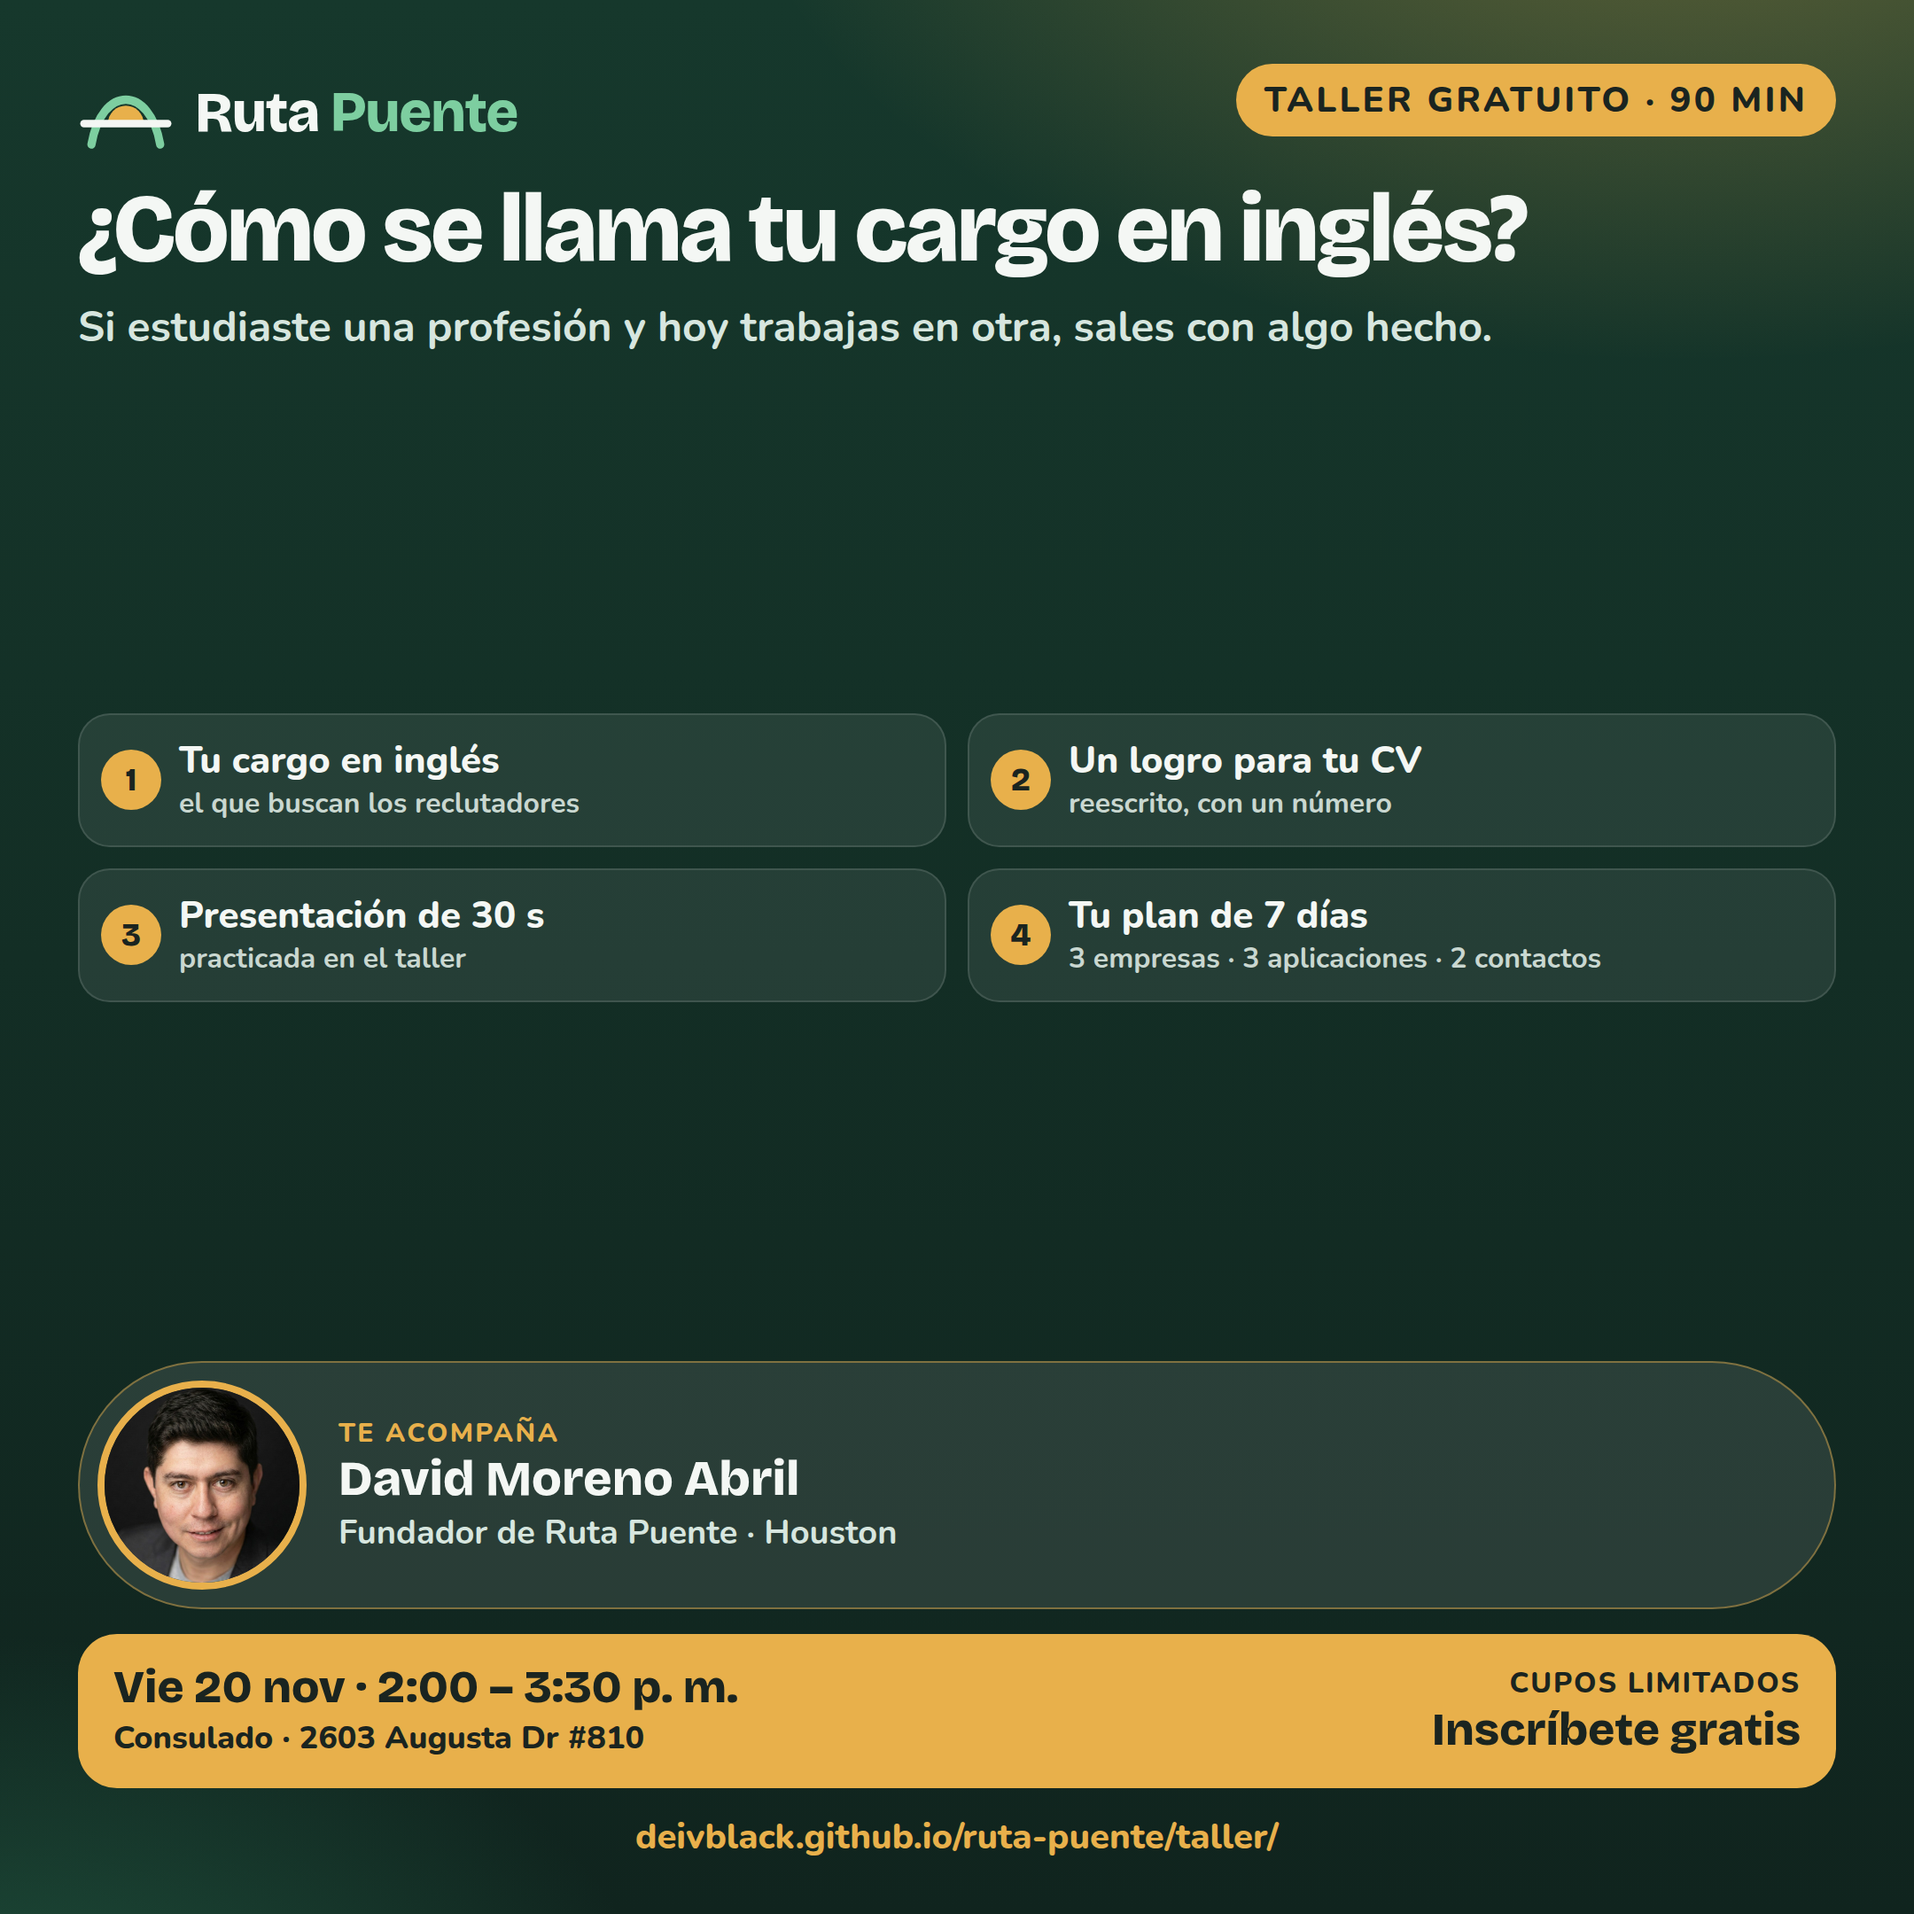
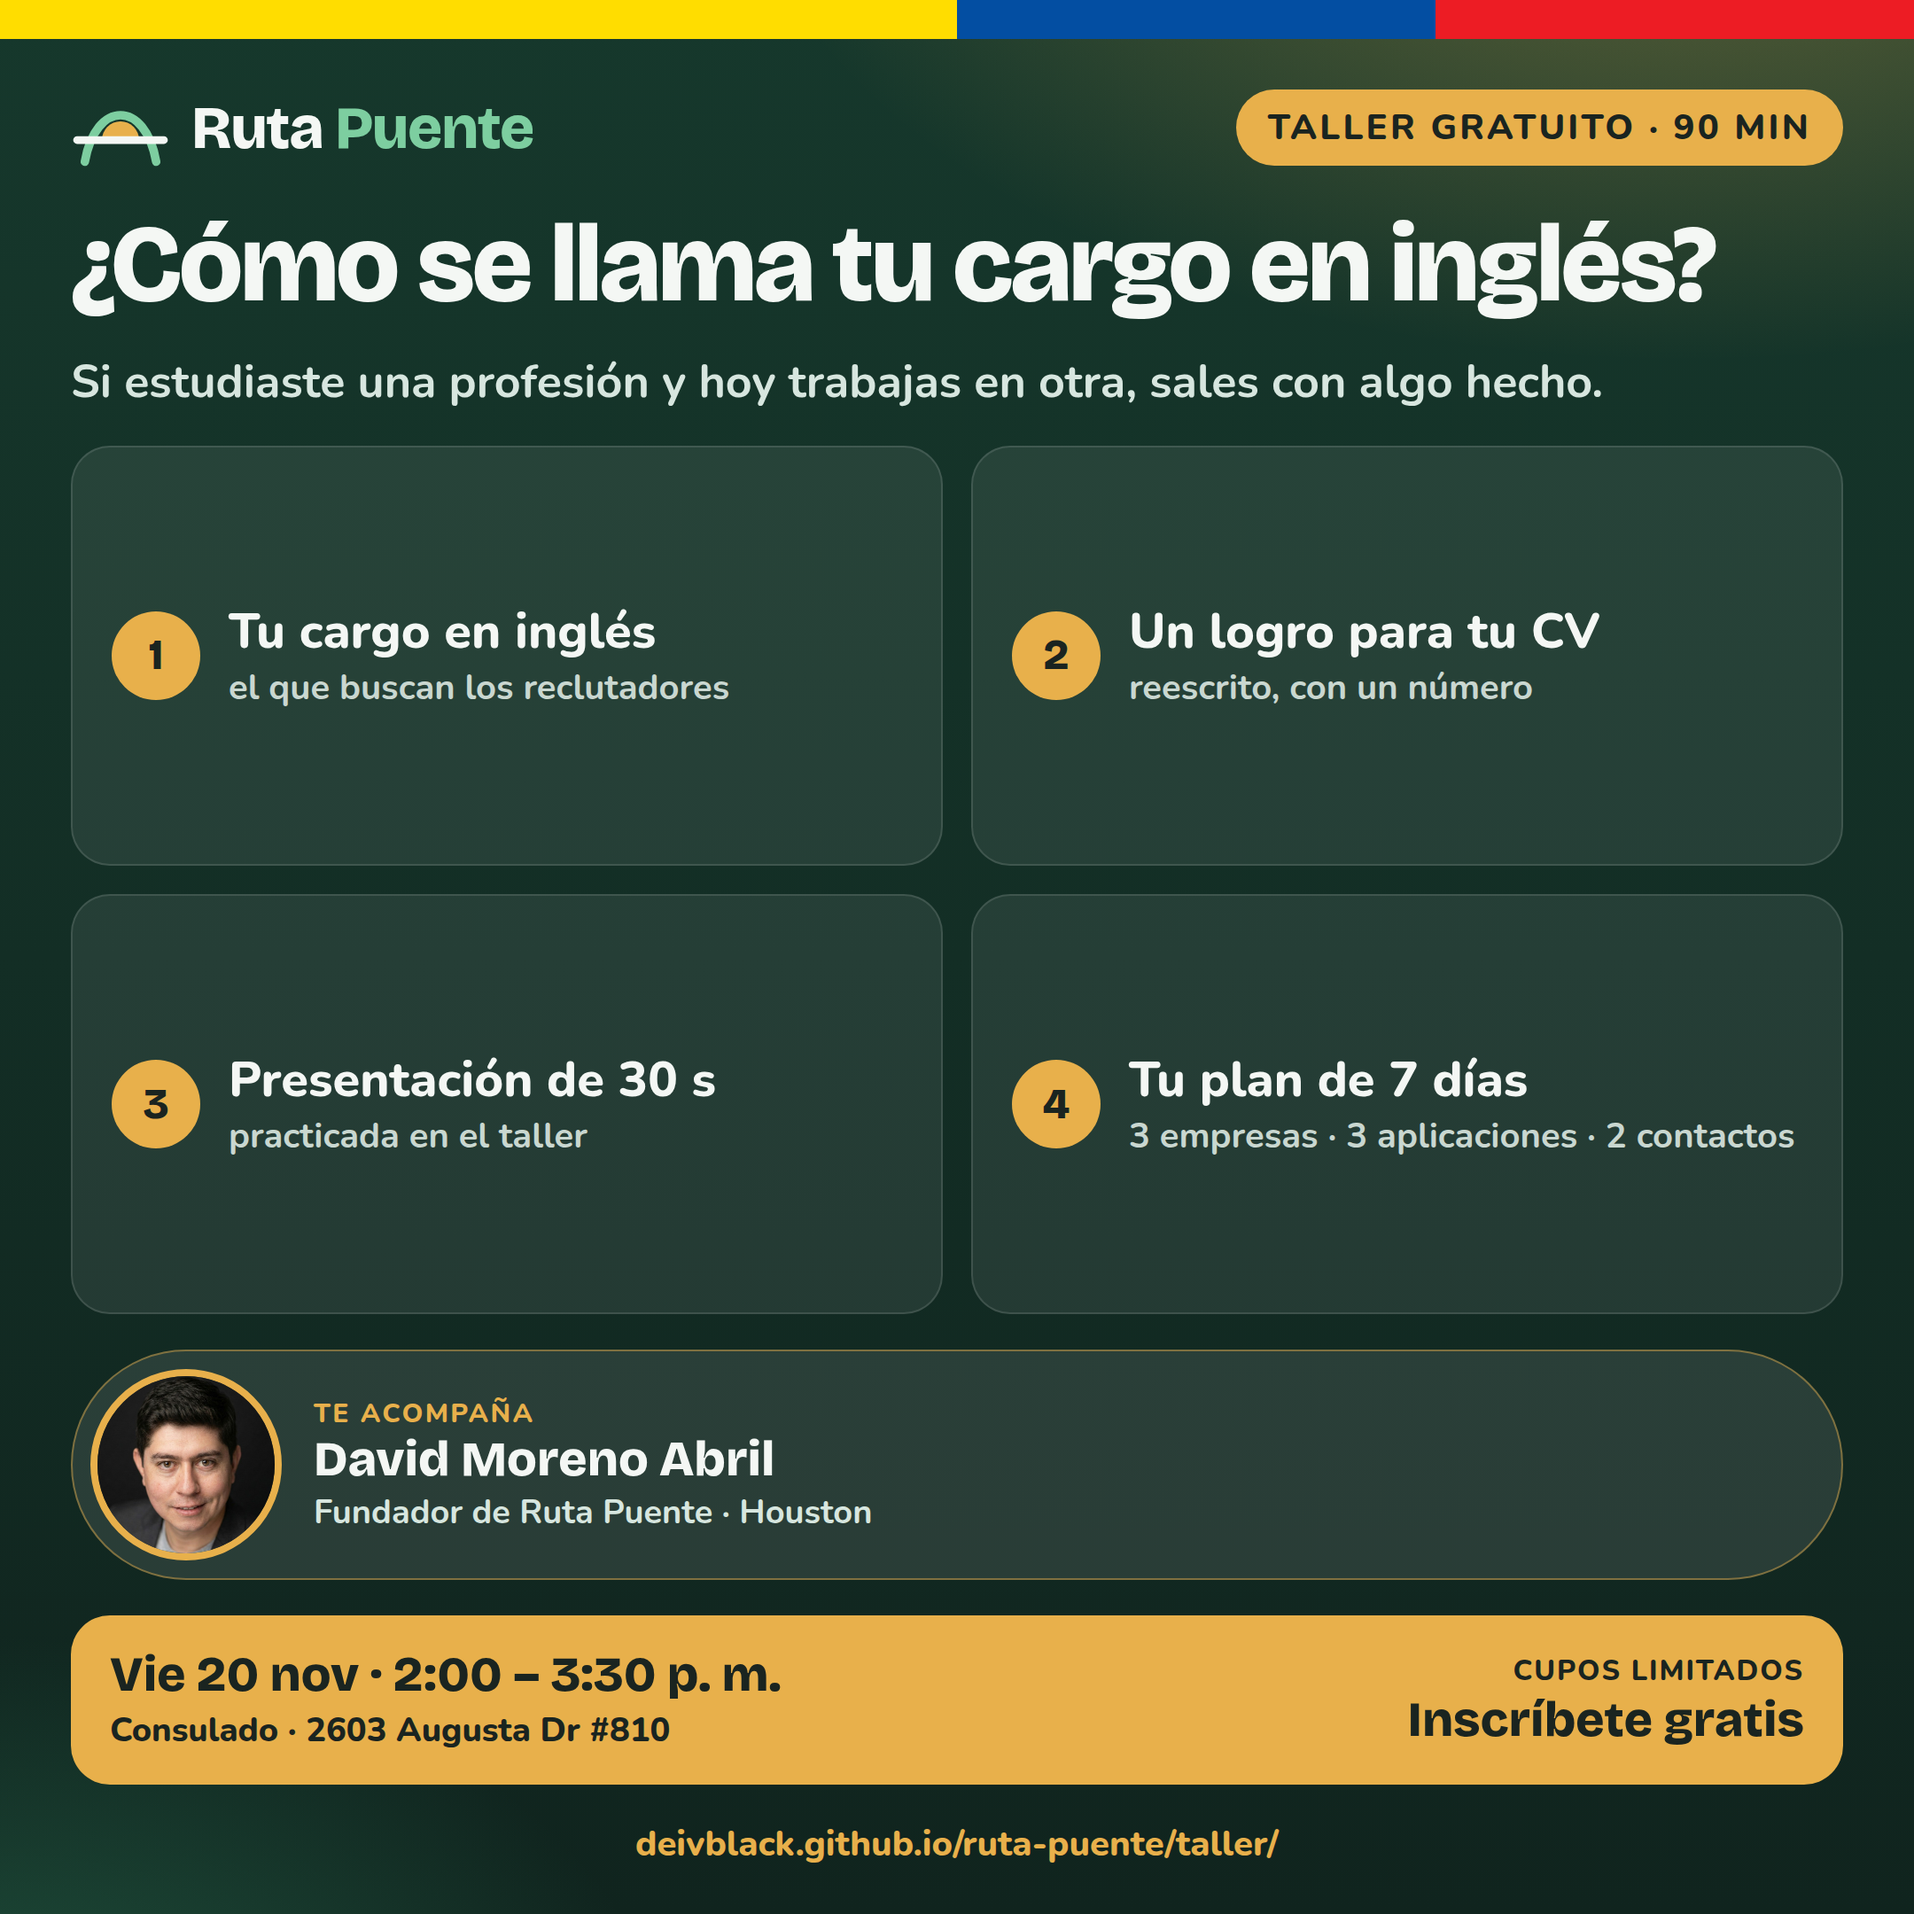
Reparte mejor el espacio de las artes de WhatsApp y vuelve a poner las franjas de la bandera.
Las bandas vacías del medio ahora las ocupan los cuatro beneficios, más grandes. El logo del Consulado sigue fuera; el apoyo va solo en el copy.

diff --git a/taller/artes/cuadrado.html b/taller/artes/cuadrado.html
@@ -17,39 +17,43 @@ html,body{margin:0;padding:0;background:#10241e}
     linear-gradient(180deg,#16382c 0%, #10241e 100%);
   color:#f4f7f4;
   font-family:"Nunito",system-ui,sans-serif;
-  padding:36px 44px 30px;
-  display:flex;flex-direction:column;justify-content:space-between;gap:18px;
+  padding:28px 40px 26px;
+  display:flex;flex-direction:column;gap:20px;
 }
-.top,.pie{display:flex;flex-direction:column;gap:14px}
-.head{display:flex;align-items:center;justify-content:space-between;gap:16px}
+.tricolor{position:absolute;left:0;right:0;top:0;height:22px;display:flex}
+.tricolor i{display:block}
+.tricolor i:nth-child(1){flex:2;background:#FFDD00}
+.tricolor i:nth-child(2){flex:1;background:#034EA2}
+.tricolor i:nth-child(3){flex:1;background:#ED1C24}
+.head{display:flex;align-items:center;justify-content:space-between;gap:16px;padding-top:16px}
 .brand{display:flex;align-items:center;gap:12px}
-.brand svg{width:54px;height:54px}
-.brand b{font-family:"Bricolage Grotesque",system-ui,sans-serif;font-size:32px;font-weight:800;letter-spacing:-.02em}
+.brand svg{width:56px;height:56px}
+.brand b{font-family:"Bricolage Grotesque",system-ui,sans-serif;font-size:34px;font-weight:800;letter-spacing:-.02em}
 .brand b span{color:#7dcea0}
 .pill{
-  align-self:flex-start;background:#e8b04b;color:#1a2420;
+  background:#e8b04b;color:#1a2420;
   font-weight:800;font-size:20px;letter-spacing:.08em;
-  padding:7px 16px;border-radius:999px;
+  padding:8px 18px;border-radius:999px;
 }
 h1{
   font-family:"Bricolage Grotesque",system-ui,sans-serif;
-  font-size:54px;line-height:.95;margin:0;font-weight:800;
+  font-size:62px;line-height:.95;margin:0;font-weight:800;
   text-wrap:balance;letter-spacing:-.03em;
 }
-.lead{font-size:24px;line-height:1.28;font-weight:700;color:#d7e6df;margin:0}
-.bens{display:grid;grid-template-columns:1fr 1fr;gap:12px}
+.lead{font-size:26px;line-height:1.25;font-weight:700;color:#d7e6df;margin:0}
+.bens{flex:1;display:grid;grid-template-columns:1fr 1fr;grid-template-rows:1fr 1fr;gap:16px;min-height:0}
 .bens div{
   background:rgba(255,255,255,.08);border:1px solid rgba(255,255,255,.12);
-  border-radius:18px;padding:14px 14px 14px 12px;
-  display:flex;gap:10px;align-items:center;
-  font-size:21px;font-weight:800;line-height:1.15;
+  border-radius:22px;padding:24px 22px;
+  display:flex;gap:16px;align-items:center;
+  font-size:28px;font-weight:800;line-height:1.15;
 }
-.bens em{display:block;font-style:normal;font-size:16px;font-weight:700;color:#c9d7d0;margin-top:3px}
+.bens em{display:block;font-style:normal;font-size:20px;font-weight:700;color:#c9d7d0;margin-top:4px}
 .bens .n{
-  flex:0 0 34px;height:34px;border-radius:50%;
+  flex:0 0 50px;height:50px;border-radius:50%;
   background:#e8b04b;color:#1a2420;
   display:grid;place-items:center;
-  font-family:"Bricolage Grotesque",system-ui,sans-serif;font-size:18px;
+  font-family:"Bricolage Grotesque",system-ui,sans-serif;font-size:24px;
 }
 .me{
   display:flex;align-items:center;gap:18px;
@@ -57,27 +61,27 @@ h1{
   border-radius:999px;padding:10px 24px 10px 10px;
 }
 .me img{
-  width:118px;height:118px;border-radius:50%;object-fit:cover;
-  border:4px solid #e8b04b;flex:0 0 118px;
+  width:108px;height:108px;border-radius:50%;object-fit:cover;
+  border:4px solid #e8b04b;flex:0 0 108px;
 }
 .me small{display:block;font-size:15px;letter-spacing:.08em;text-transform:uppercase;color:#e8b04b;font-weight:800}
 .me b{display:block;font-family:"Bricolage Grotesque",system-ui,sans-serif;font-size:28px;line-height:1.1}
 .me span{display:block;font-size:19px;font-weight:700;color:#d7e6df;margin-top:2px}
 .barra{
   background:#e8b04b;color:#1a2420;border-radius:22px;
-  padding:16px 20px;display:flex;align-items:center;justify-content:space-between;gap:16px;
+  padding:18px 22px;display:flex;align-items:center;justify-content:space-between;gap:16px;
 }
-.barra b{display:block;font-family:"Bricolage Grotesque",system-ui,sans-serif;font-size:26px;line-height:1.1}
-.barra span{display:block;font-size:18px;font-weight:800;margin-top:2px}
+.barra b{display:block;font-family:"Bricolage Grotesque",system-ui,sans-serif;font-size:28px;line-height:1.1}
+.barra span{display:block;font-size:19px;font-weight:800;margin-top:3px}
 .cta{text-align:right;font-weight:800}
 .cta em{display:block;font-style:normal;font-size:16px;letter-spacing:.06em}
-.cta strong{display:block;font-family:"Bricolage Grotesque",system-ui,sans-serif;font-size:26px}
+.cta strong{display:block;font-family:"Bricolage Grotesque",system-ui,sans-serif;font-size:28px}
 .url{text-align:center;font-size:20px;font-weight:800;color:#e8b04b}
 </style>
 </head>
 <body>
 <div class="pieza">
-  <div class="top">
+  <div class="tricolor" aria-hidden="true"><i></i><i></i><i></i></div>
   <div class="head">
     <div class="brand">
       <svg viewBox="0 0 64 64" aria-hidden="true"><path d="M20 40a12 12 0 0 1 24 0Z" fill="#E8B04B"/><path d="M9 54 C 16 14, 48 14, 55 54" fill="none" stroke="#7dcea0" stroke-width="5.5" stroke-linecap="round"/><path d="M4 40h56" stroke="#f4f7f4" stroke-width="5" stroke-linecap="round"/></svg>
@@ -87,14 +91,12 @@ h1{
   </div>
   <h1>¿Cómo se llama tu cargo en inglés?</h1>
   <p class="lead">Si estudiaste una profesión y hoy trabajas en otra, sales con algo hecho.</p>
-  </div>
   <div class="bens">
     <div><span class="n">1</span><span>Tu cargo en inglés<em>el que buscan los reclutadores</em></span></div>
     <div><span class="n">2</span><span>Un logro para tu CV<em>reescrito, con un número</em></span></div>
     <div><span class="n">3</span><span>Presentación de 30 s<em>practicada en el taller</em></span></div>
     <div><span class="n">4</span><span>Tu plan de 7 días<em>3 empresas · 3 aplicaciones · 2 contactos</em></span></div>
   </div>
-  <div class="pie">
   <div class="me">
     <img src="david.jpg" alt="David Moreno Abril">
     <div>
@@ -114,7 +116,6 @@ h1{
     </div>
   </div>
   <div class="url">deivblack.github.io/ruta-puente/taller/</div>
-  </div>
 </div>
 </body>
 </html>

diff --git a/taller/artes/estado.html b/taller/artes/estado.html
@@ -17,69 +17,75 @@ html,body{margin:0;padding:0;background:#10241e}
     linear-gradient(180deg,#1a4638 0%, #10241e 48%, #0d1c18 100%);
   color:#f4f7f4;
   font-family:"Nunito",system-ui,sans-serif;
-  padding:52px 52px 44px;
-  display:flex;flex-direction:column;gap:20px;
+  padding:36px 48px 40px;
+  display:flex;flex-direction:column;gap:22px;
 }
-.head{display:flex;align-items:center;justify-content:space-between;gap:16px}
+.tricolor{position:absolute;left:0;right:0;top:0;height:24px;display:flex}
+.tricolor i{display:block}
+.tricolor i:nth-child(1){flex:2;background:#FFDD00}
+.tricolor i:nth-child(2){flex:1;background:#034EA2}
+.tricolor i:nth-child(3){flex:1;background:#ED1C24}
+.head{display:flex;align-items:center;justify-content:space-between;gap:16px;padding-top:18px}
 .brand{display:flex;align-items:center;gap:12px}
 .brand svg{width:58px;height:58px}
 .brand b{font-family:"Bricolage Grotesque",system-ui,sans-serif;font-size:34px;font-weight:800}
 .brand b span{color:#7dcea0}
 .pill{
-  align-self:flex-start;background:#e8b04b;color:#1a2420;
+  background:#e8b04b;color:#1a2420;
   font-weight:800;font-size:22px;letter-spacing:.08em;
   padding:9px 18px;border-radius:999px;
 }
 h1{
   font-family:"Bricolage Grotesque",system-ui,sans-serif;
-  font-size:70px;line-height:.95;margin:0;font-weight:800;letter-spacing:-.03em;
+  font-size:72px;line-height:.95;margin:0;font-weight:800;letter-spacing:-.03em;
 }
-.lead{font-size:28px;line-height:1.28;font-weight:700;color:#d7e6df;margin:0}
-.bens{display:flex;flex-direction:column;gap:12px}
+.lead{font-size:30px;line-height:1.25;font-weight:700;color:#d7e6df;margin:0}
+.bens{flex:1;display:flex;flex-direction:column;gap:16px;min-height:0}
 .bens div{
+  flex:1;
   background:rgba(255,255,255,.08);border:1px solid rgba(255,255,255,.12);
-  border-radius:18px;padding:16px 18px;
-  display:flex;gap:14px;align-items:center;
-  font-size:28px;font-weight:800;line-height:1.2;
+  border-radius:22px;padding:22px 24px;
+  display:flex;gap:16px;align-items:center;
+  font-size:34px;font-weight:800;line-height:1.15;
 }
 .bens .n{
-  flex:0 0 42px;height:42px;border-radius:50%;
+  flex:0 0 56px;height:56px;border-radius:50%;
   background:#e8b04b;color:#1a2420;
   display:grid;place-items:center;
-  font-family:"Bricolage Grotesque",system-ui,sans-serif;font-size:22px;
+  font-family:"Bricolage Grotesque",system-ui,sans-serif;font-size:26px;
 }
-.bens em{display:block;font-style:normal;font-size:18px;font-weight:700;color:#c9d7d0;margin-top:2px}
+.bens em{display:block;font-style:normal;font-size:22px;font-weight:700;color:#c9d7d0;margin-top:4px}
 .dato{
   background:rgba(232,176,75,.14);border:2px solid #e8b04b;border-radius:24px;
-  padding:20px 22px;
+  padding:22px 24px;
 }
-.dato b{display:block;font-family:"Bricolage Grotesque",system-ui,sans-serif;font-size:32px;line-height:1.15}
-.dato span{display:block;font-size:22px;font-weight:800;margin-top:6px;color:#e8d9b0}
+.dato b{display:block;font-family:"Bricolage Grotesque",system-ui,sans-serif;font-size:34px;line-height:1.15}
+.dato span{display:block;font-size:24px;font-weight:800;margin-top:6px;color:#e8d9b0}
 .me{
   display:flex;align-items:center;gap:18px;
   background:rgba(255,255,255,.1);border:1px solid rgba(232,176,75,.45);
-  border-radius:999px;padding:10px 24px 10px 10px;
+  border-radius:999px;padding:12px 26px 12px 12px;
 }
 .me img{
-  width:156px;height:156px;border-radius:50%;object-fit:cover;
-  border:4px solid #e8b04b;flex:0 0 156px;
+  width:148px;height:148px;border-radius:50%;object-fit:cover;
+  border:4px solid #e8b04b;flex:0 0 148px;
 }
 .me small{display:block;font-size:16px;letter-spacing:.08em;text-transform:uppercase;color:#e8b04b;font-weight:800}
 .me b{display:block;font-family:"Bricolage Grotesque",system-ui,sans-serif;font-size:32px;line-height:1.1;margin-top:2px}
 .me span{display:block;font-size:22px;font-weight:700;color:#d7e6df;margin-top:4px}
-.pie{display:flex;flex-direction:column;gap:16px;margin-top:8px}
 .foot{
   display:flex;align-items:center;gap:22px;
-  background:#f4f7f4;color:#1a2420;border-radius:28px;padding:20px;
+  background:#f4f7f4;color:#1a2420;border-radius:28px;padding:22px;
 }
 .foot img{width:200px;height:200px;background:#fff;border-radius:16px}
-.foot strong{display:block;font-family:"Bricolage Grotesque",system-ui,sans-serif;font-size:34px;line-height:1.1}
-.foot span{display:block;font-size:20px;font-weight:800;margin-top:8px;word-break:break-all}
-.foot em{display:block;font-style:normal;margin-top:8px;font-size:22px;font-weight:800;color:#2e7d5b}
+.foot strong{display:block;font-family:"Bricolage Grotesque",system-ui,sans-serif;font-size:36px;line-height:1.1}
+.foot span{display:block;font-size:22px;font-weight:800;margin-top:8px;word-break:break-all}
+.foot em{display:block;font-style:normal;margin-top:10px;font-size:24px;font-weight:800;color:#2e7d5b}
 </style>
 </head>
 <body>
 <div class="pieza">
+  <div class="tricolor" aria-hidden="true"><i></i><i></i><i></i></div>
   <div class="head">
     <div class="brand">
       <svg viewBox="0 0 64 64" aria-hidden="true"><path d="M20 40a12 12 0 0 1 24 0Z" fill="#E8B04B"/><path d="M9 54 C 16 14, 48 14, 55 54" fill="none" stroke="#7dcea0" stroke-width="5.5" stroke-linecap="round"/><path d="M4 40h56" stroke="#f4f7f4" stroke-width="5" stroke-linecap="round"/></svg>
@@ -99,7 +105,6 @@ h1{
     <b>Viernes 20 de noviembre · 2:00 – 3:30 p. m.</b>
     <span>Consulado General del Ecuador · 2603 Augusta Dr #810, Houston</span>
   </div>
-  <div class="pie">
   <div class="me">
     <img src="david.jpg" alt="David Moreno Abril">
     <div>
@@ -115,7 +120,6 @@ h1{
       <span>deivblack.github.io/ruta-puente/taller/</span>
       <em>Preguntas: 832-253-3555</em>
     </div>
-  </div>
   </div>
 </div>
 </body>
